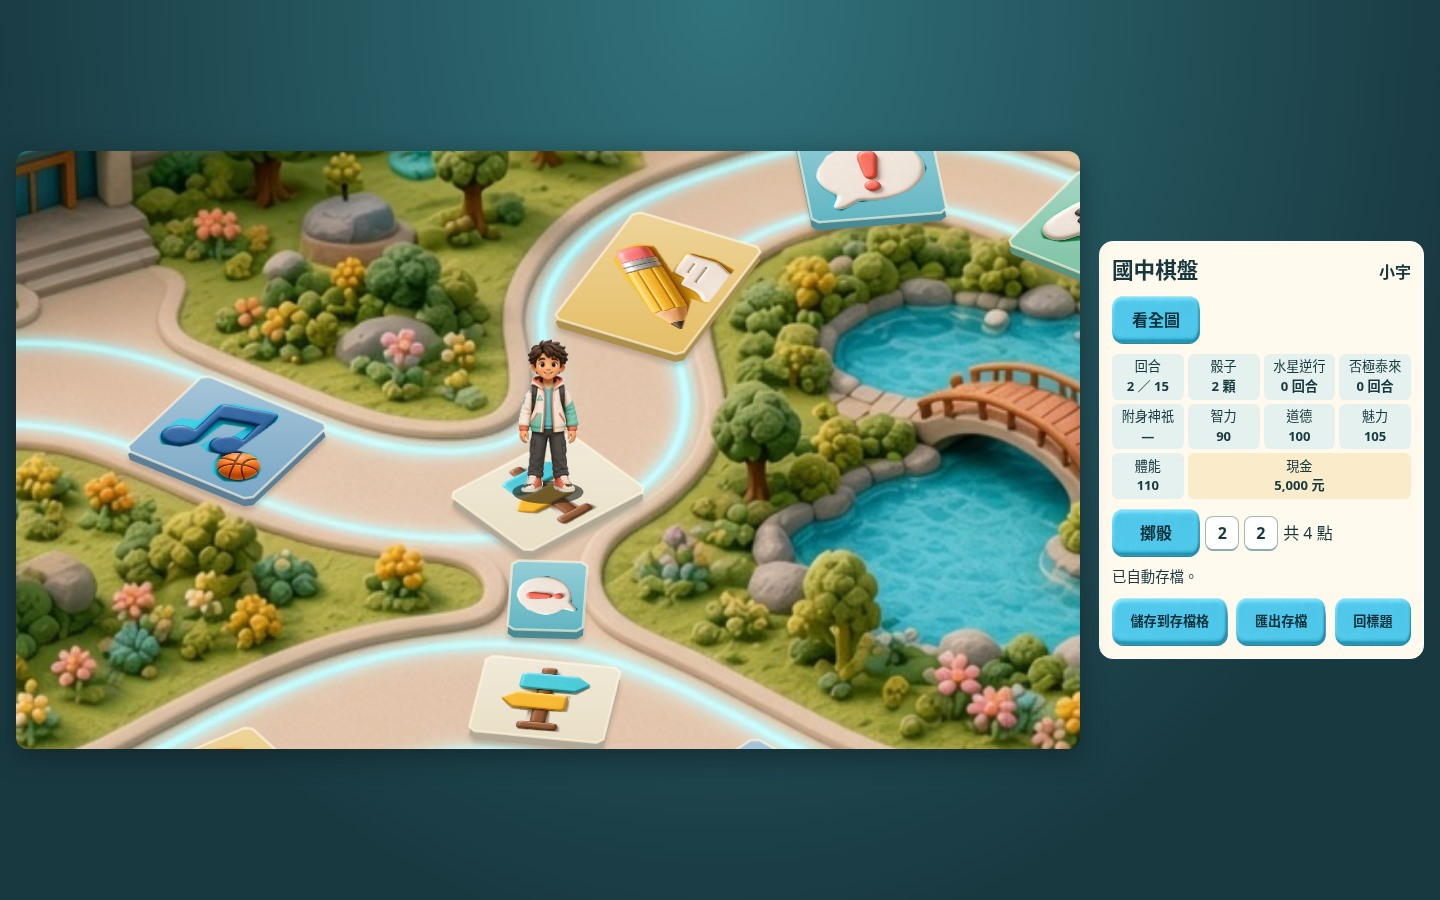
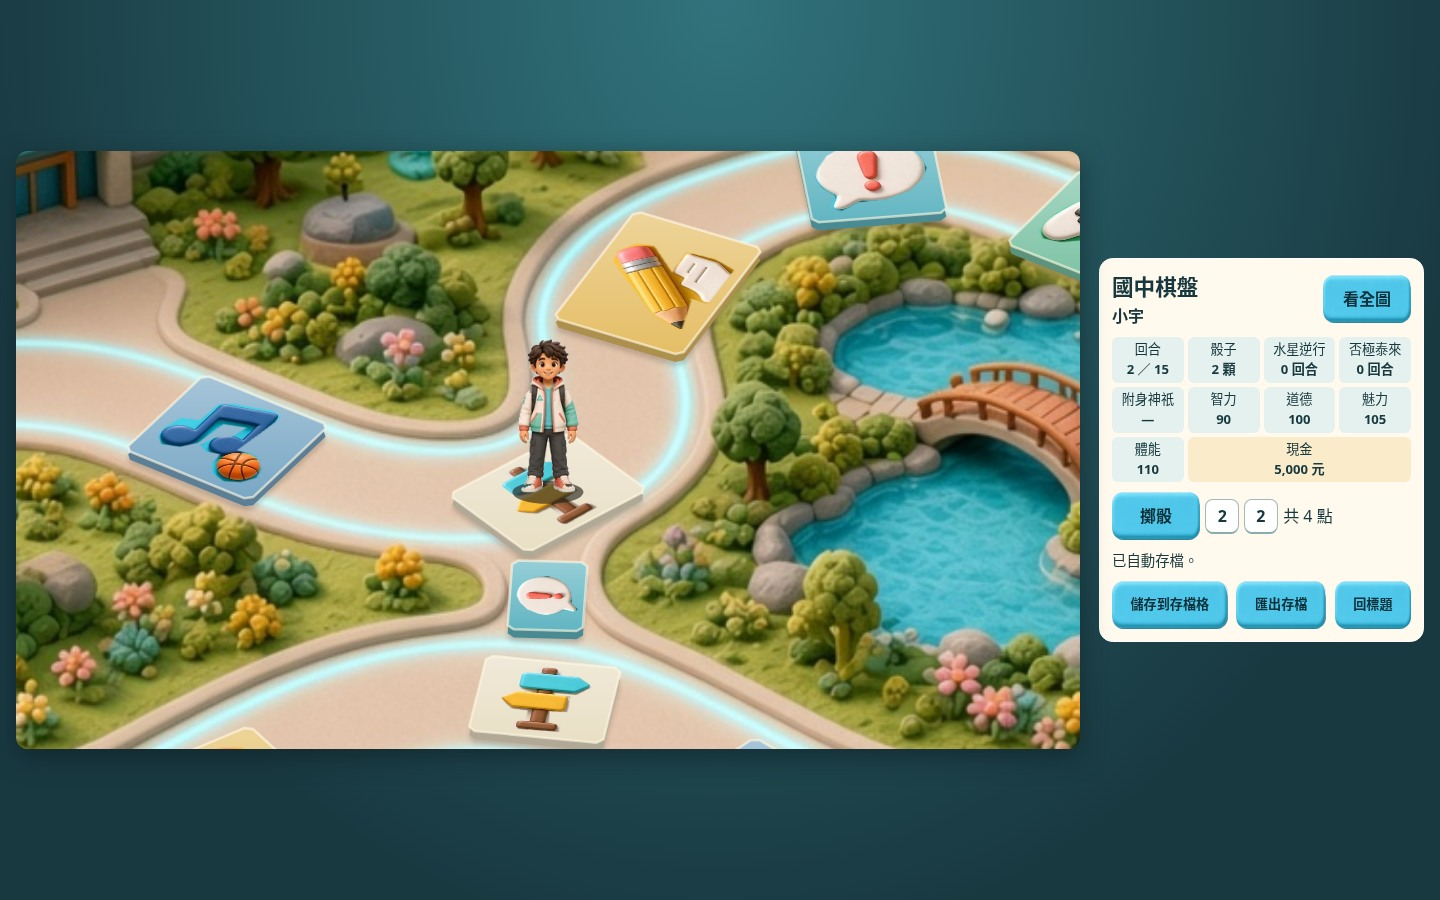
將全圖切換整合至固定控制列

Changed region(s): [[0.75, 0.2489, 1.0, 0.7467]]

diff --git a/src/junior-board.ts b/src/junior-board.ts
@@ -49,8 +49,10 @@ export function showJuniorBoard(
       <svg class="board-track" preserveAspectRatio="none"></svg></div>
     </div>
     <section class="board-controls">
-      <header><h1 tabindex="-1">國中棋盤</h1><h2 id="character-name"></h2></header>
-      <button class="action" id="overview" type="button" aria-pressed="false">看全圖</button>
+      <header>
+        <div><h1 tabindex="-1">國中棋盤</h1><h2 id="character-name"></h2></div>
+        <button class="action" id="overview" type="button" aria-pressed="false">看全圖</button>
+      </header>
       <dl class="board-status" aria-label="玩家狀態"></dl>
       <div class="board-roll">
         <button class="action" id="roll" type="button">擲骰</button>

diff --git a/src/junior-board.css b/src/junior-board.css
@@ -82,16 +82,13 @@
   display: grid;
   gap: 0.6rem;
 }
-#overview {
-  justify-self: start;
-}
 #overview[aria-pressed="true"] {
   outline: 2px solid #23737c;
   outline-offset: 2px;
 }
 .board-controls header {
   display: flex;
-  align-items: baseline;
+  align-items: center;
   justify-content: space-between;
   flex-wrap: wrap;
   gap: 0.15rem 0.55rem;
